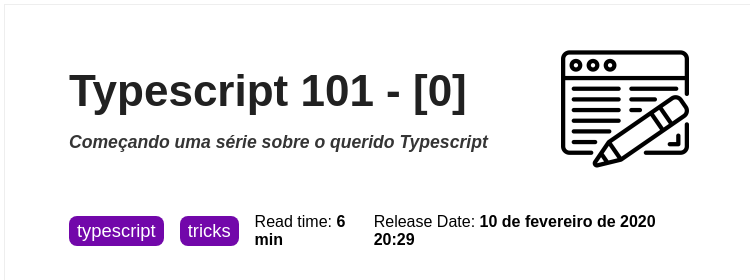
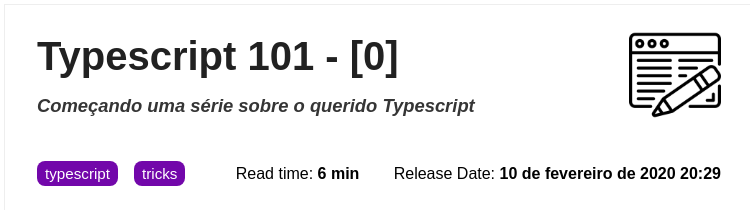
feat: rebuild opengraph images

diff --git a/open-graph-bot/template.html b/open-graph-bot/template.html
@@ -22,7 +22,7 @@
             width: 100%;
             border: 1px solid #eee;
             box-shadow: 5px 5px 5px #eee;
-            padding: 2.5rem 4rem;
+            padding: 1.5rem 2rem;
         }
 
         section {
@@ -30,13 +30,13 @@
             display: flex;
             align-items: center;
             justify-content: space-between;
-            row-gap: 2rem;
+            row-gap: 1rem;
             flex-direction: row;
             flex-wrap: nowrap;
         }
 
         .img-post {
-            width: 128px;
+            width: 92px;
             display: inline-block;
         }
 
@@ -48,13 +48,13 @@
         }
 
         #header h1 {
-            font-size: 2.75rem;
+            font-size: 2.5rem;
             margin-bottom: 1rem;
             color: #212121;
         }
 
         #header h3 {
-            font-size: 1.1rem;
+            font-size: 1.15rem;
             font-style: italic;
             color: #353535;
         }
@@ -67,7 +67,7 @@
 
         #tags li {
             margin-right: 1rem;
-            font-size: 1.15rem;
+            font-size: 0.95rem;
             padding: 0.25rem 0.5rem;
             background-color: #7207aa;
             color: #fff;

diff --git a/open-graph-bot/bot.ts b/open-graph-bot/bot.ts
@@ -63,7 +63,7 @@ server.listen(5000);
 (async () => {
   const browser = await puppeteer.launch({
     defaultViewport: {
-      height: 280,
+      height: 210,
       width: 750,
     },
     headless: true,
